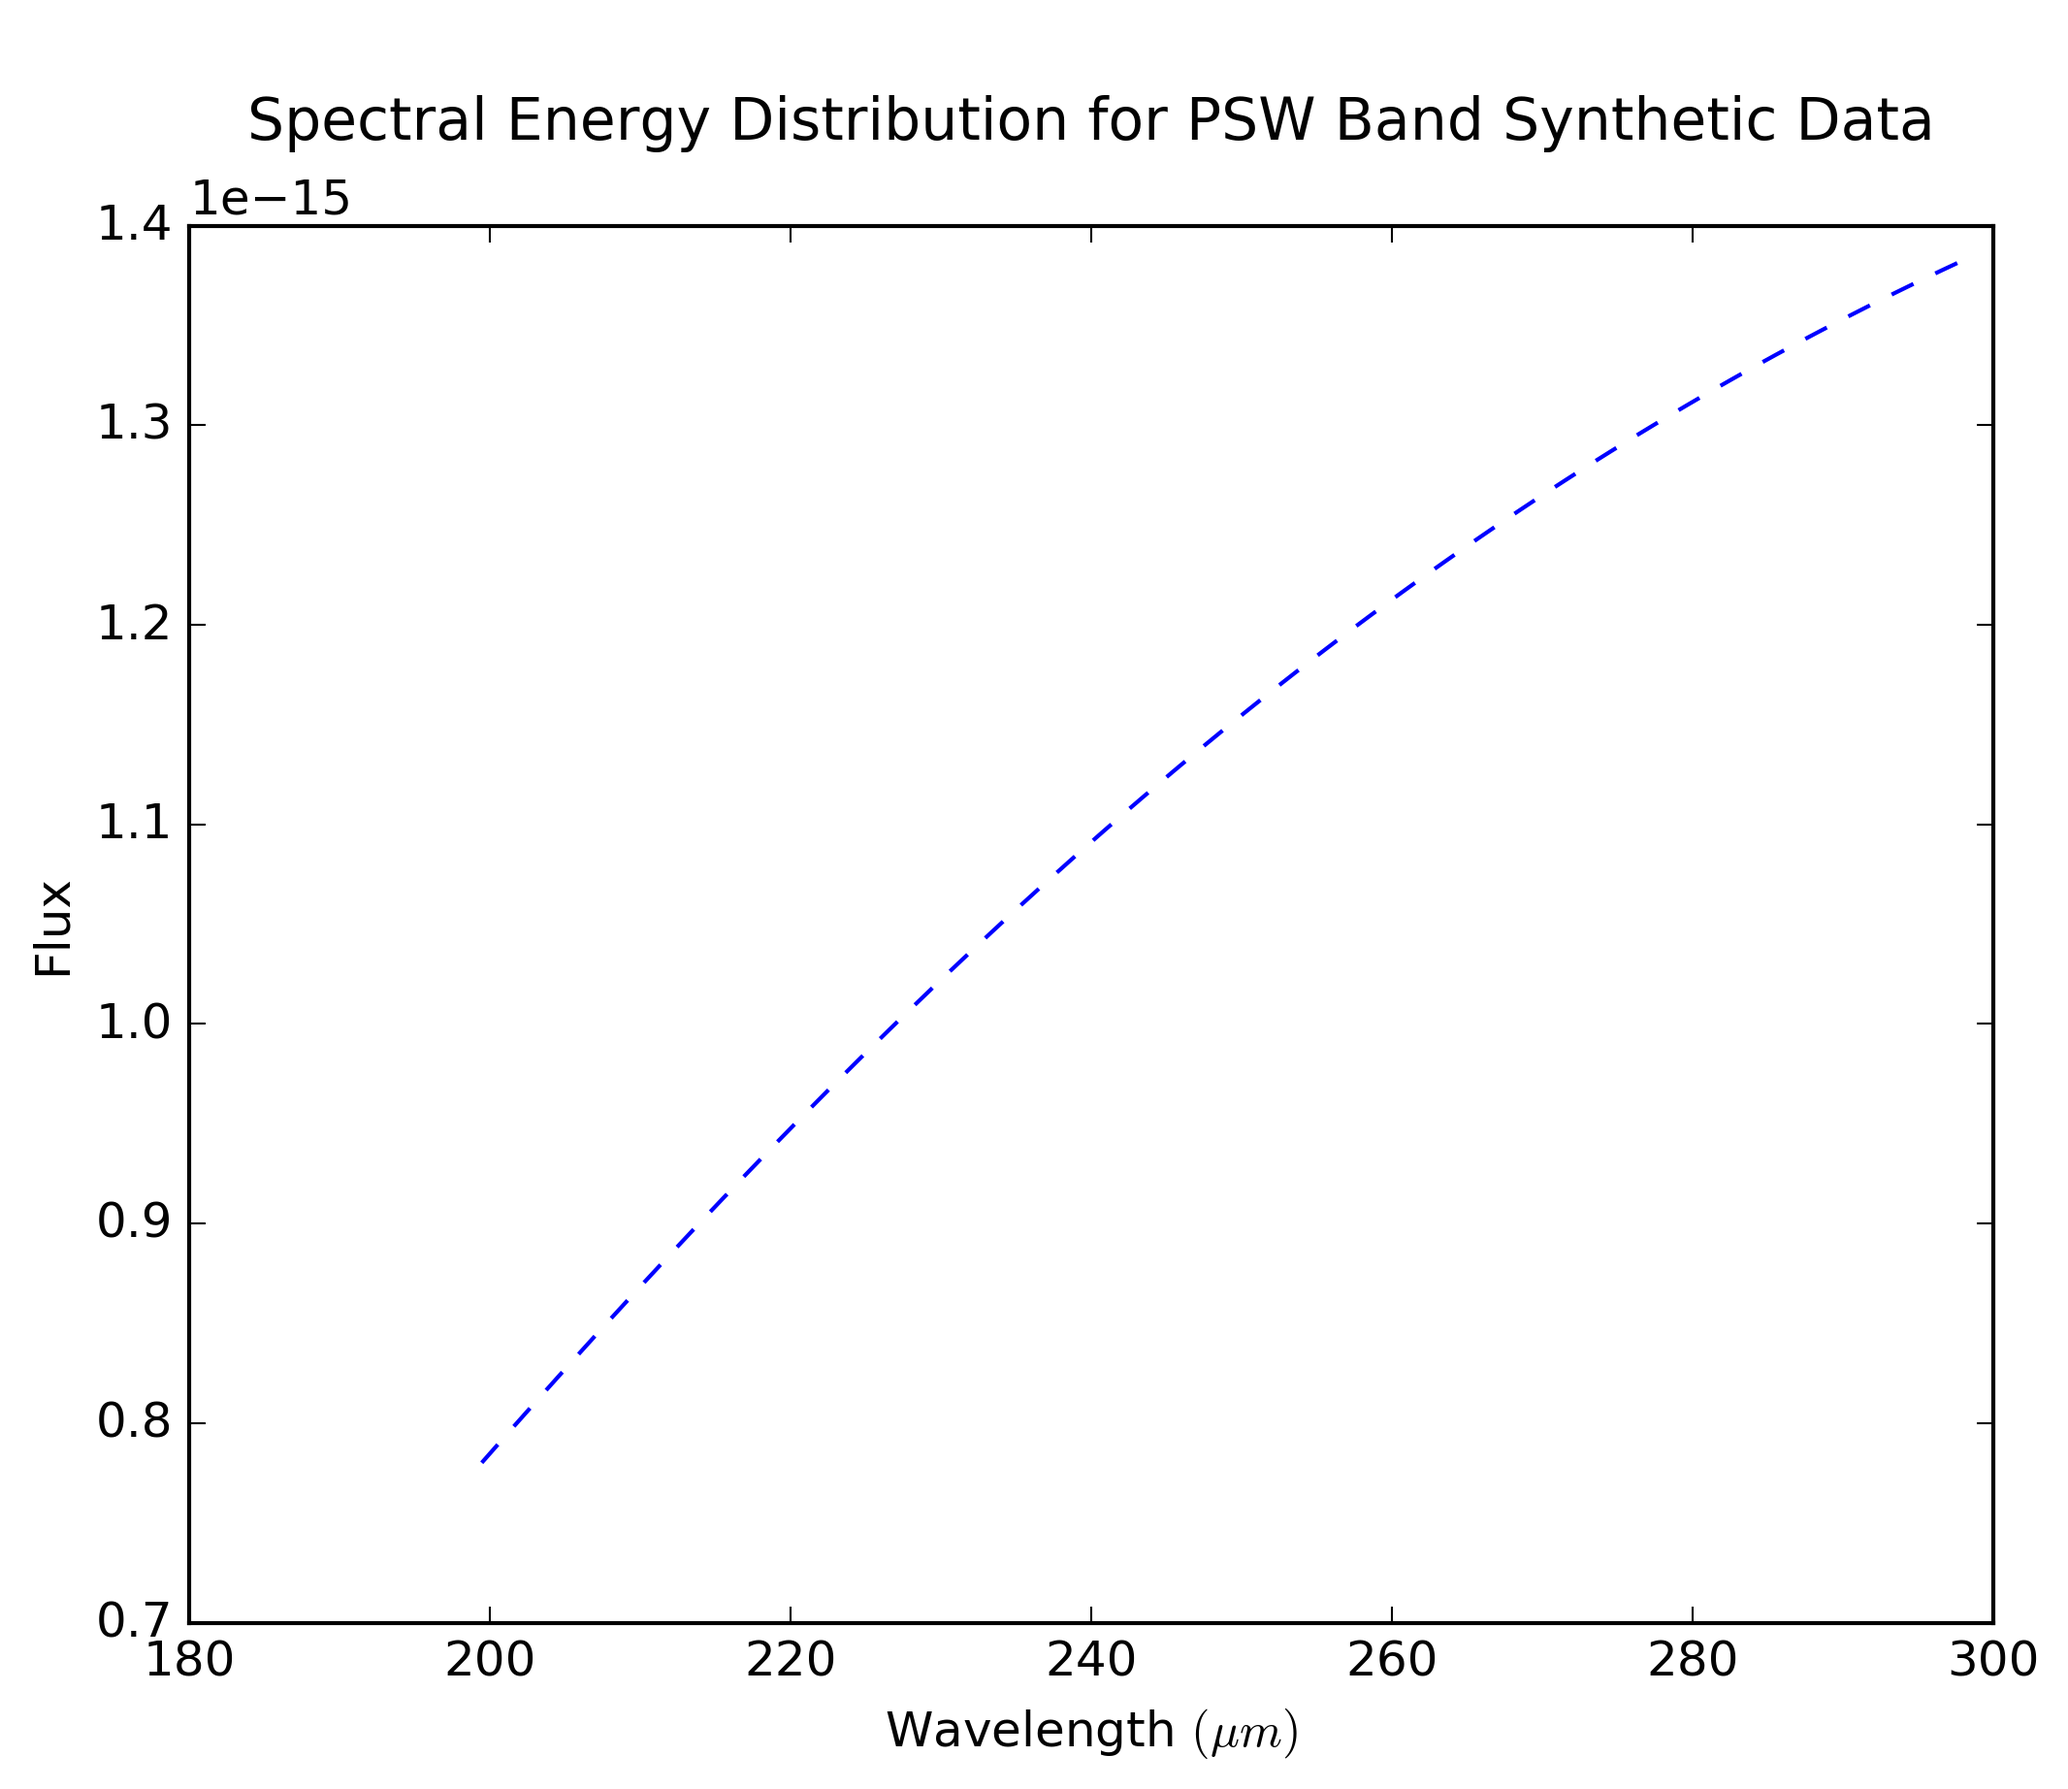
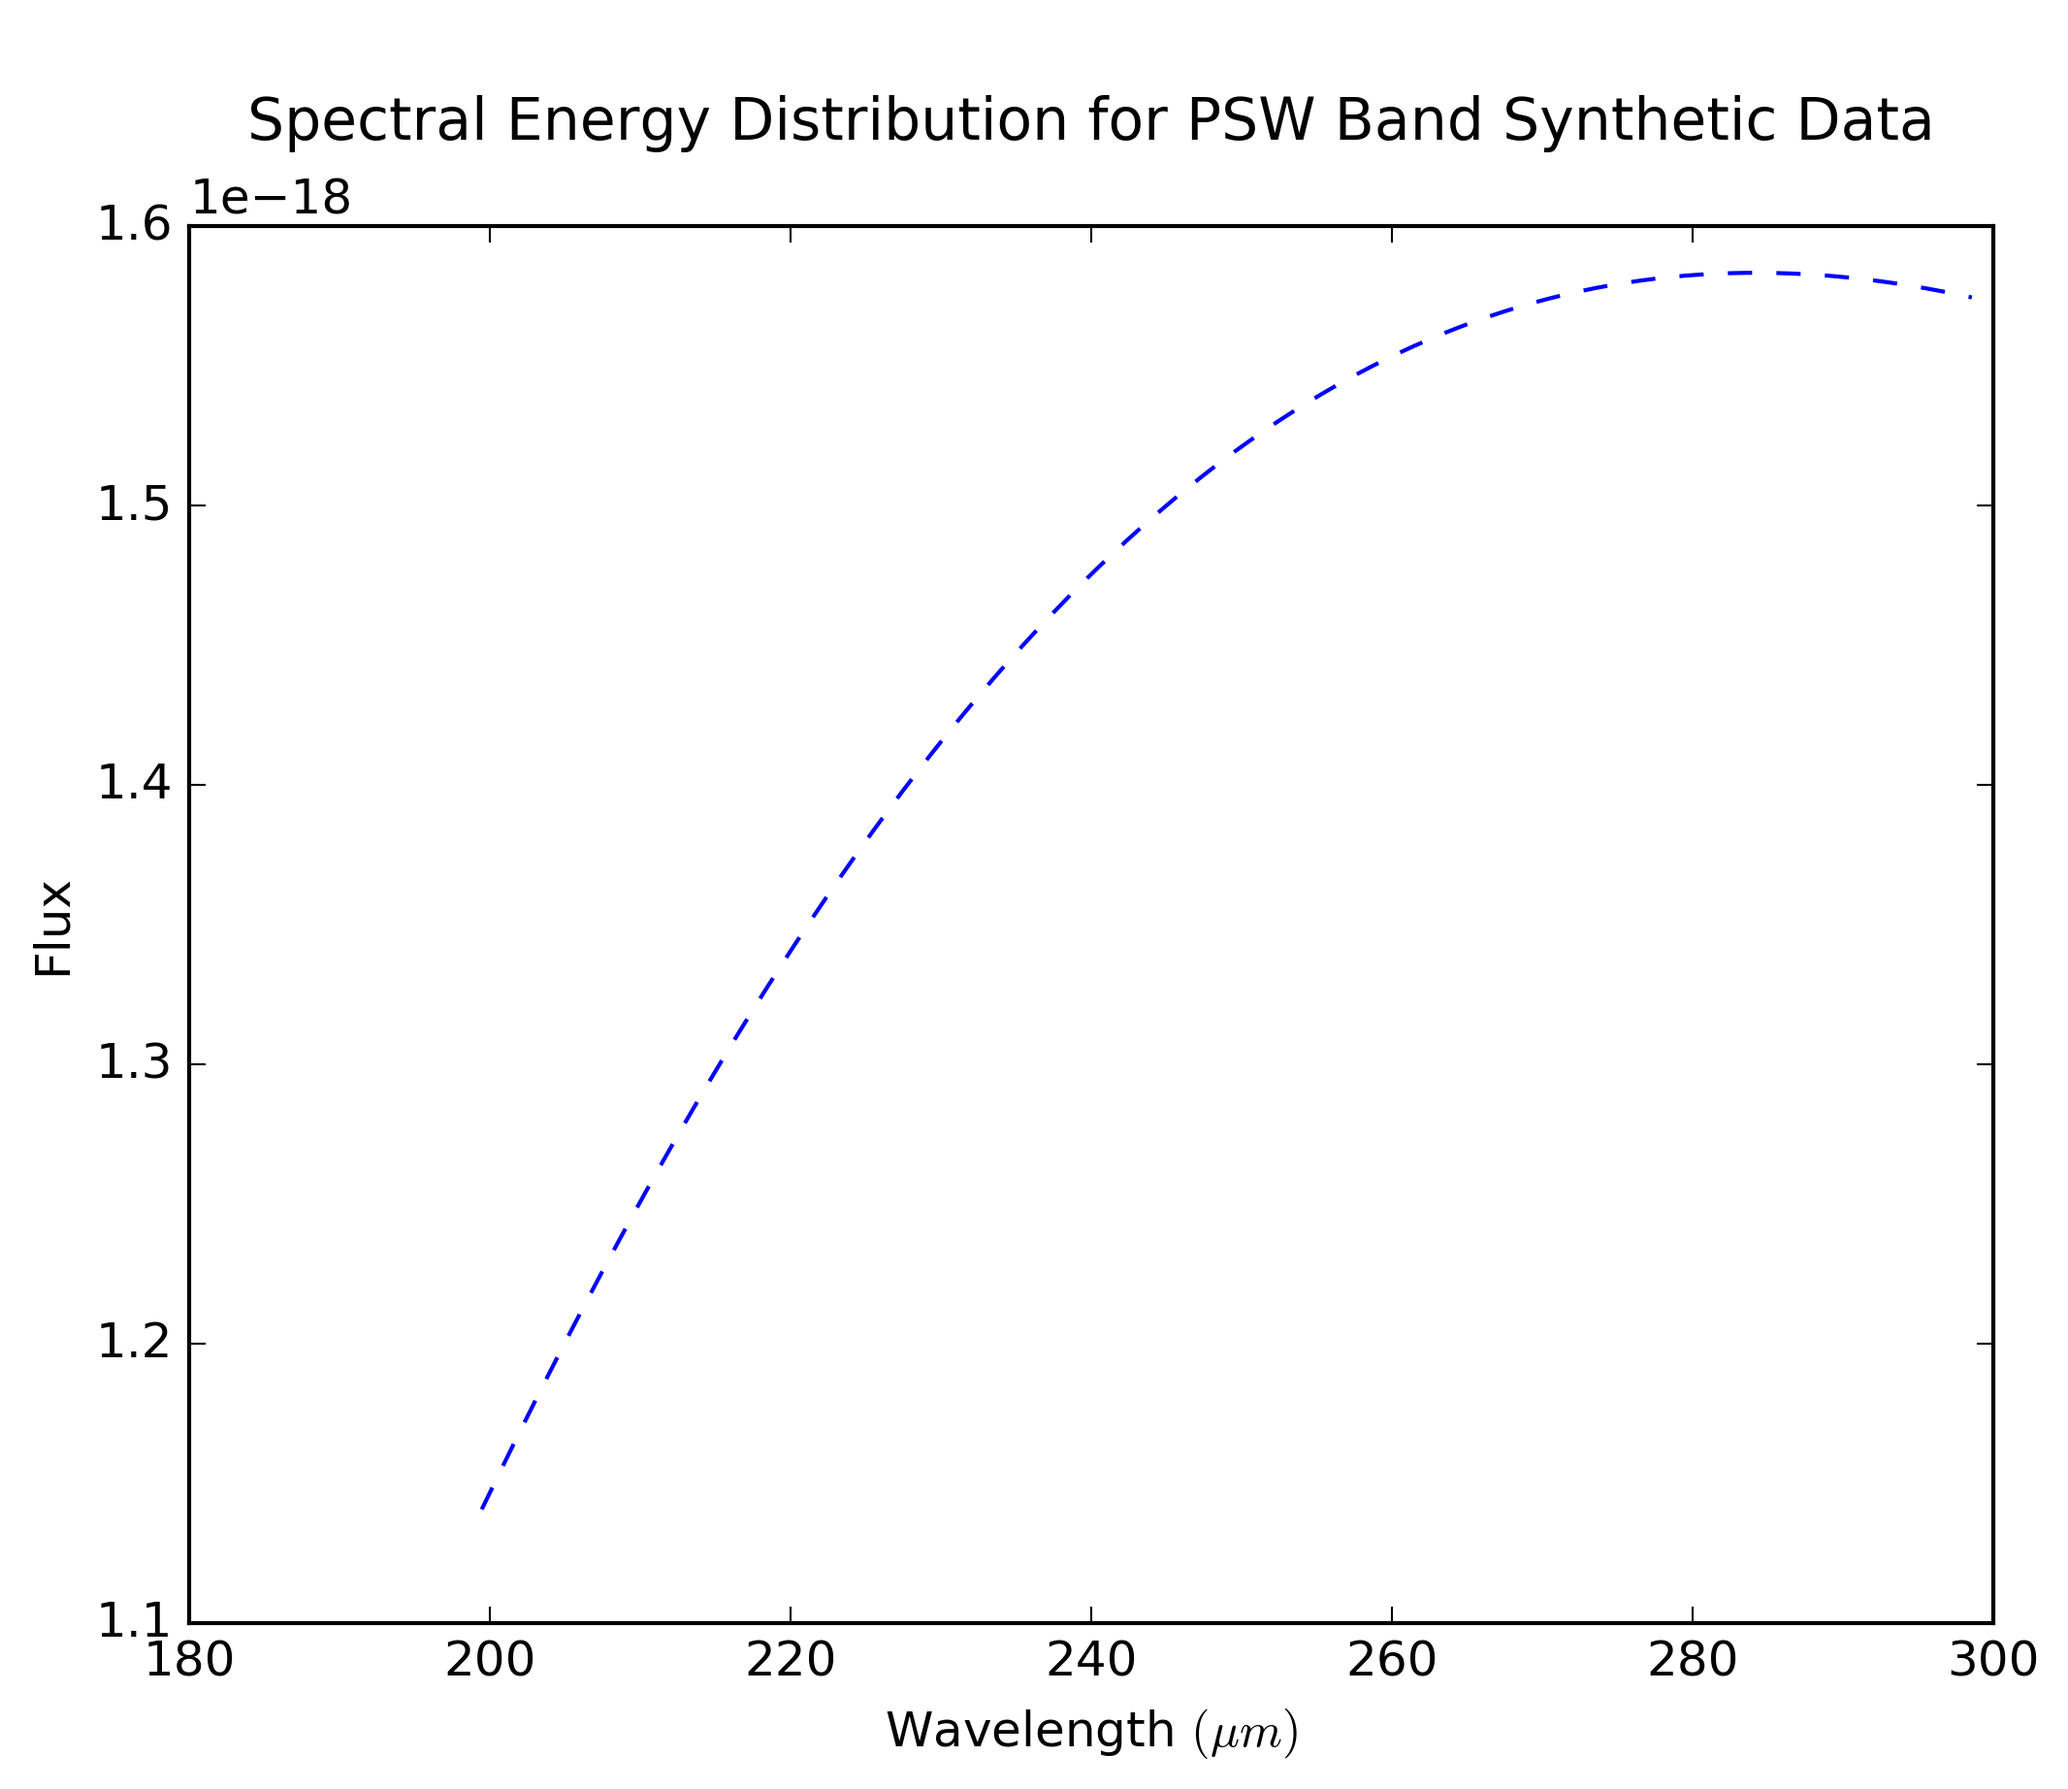
Added some minor tests of blackbody curves. Results match those of Shetty et. al.

diff --git a/Code/simulations/stats/chi.py b/Code/simulations/stats/chi.py
@@ -30,7 +30,7 @@ def chi(O,E,sigma):
     Returns simply the minimised chi squared value for a given dataset.
 
     O is the flux from the actual data.
-    Sigma is the square root of the variance of P (assume 10% of P)
+    Sigma is the square root of the variance of O (assume 10% of O)
     E is the data that is expected
     '''
     return sum((((O-E)/sigma)**2))
@@ -42,7 +42,10 @@ def mbb(N,opac,wav,T):
 
     This returns the intensity per unit solid angle, i.e. the flux observed.
     '''
-    return (N*opac*((2*(hh)*(cc)**2)/wav**5)*(1/(np.exp(hh*cc/(wav*kk*T))-1)))
+    a = (2*(6.626e-34)*(3e8)**2)/(wav**5)
+    b = ((6.6262e-34)*(3e8))/(wav*(1.38e-23)*T)
+    #return N*opac*(a*(1./(np.exp(b)-1)))
+    return opac*N*(a*(1./(np.exp(b)-1)))
 
 ############################ Read in the spectral data #########################
 
@@ -50,7 +53,7 @@ def mbb(N,opac,wav,T):
 spectrum = np.loadtxt('spectrum.out', skiprows=2)
 
 wav = spectrum[:,0]
-flux = spectrum[:,1]/max(spectrum[:,1])
+flux = spectrum[:,1]
 
 ######################### Determine (again) the opacity ########################
 
@@ -58,18 +61,28 @@ band = input('Which passband is to be considered? Answer with: \'PSW\', \'PMW\',
 
 if band == 'PSW':
     # The start and end points of the wavelength range in microns
-    lambda_init = 199.4540
-    lambda_fin = 298.5657
+    lambda_init = 199.4540e-6
+    lambda_fin = 298.5657e-6
 
     # Query for reference wavelength
-    w_ref = 249.00983
-    v_ref = cc/w_ref
+    w_ref = 1.30e9
+    v_ref = cc*10**-2/w_ref
+    print 'The reference wavelength is taken to be', w_ref, 'microns which equates to a frequency of', v_ref, 'Hz.\n'
+
+if band == 'PMW':
+    # The start and end points of the wavelength range in microns
+    lambda_init = 281.6949
+    lambda_fin = 424.7548
+
+    # Query for reference wavelength
+    w_ref = 1.30e9
+    v_ref = cc*10**-2/w_ref
     print 'The reference wavelength is taken to be', w_ref, 'microns which equates to a frequency of', v_ref, 'Hz.\n'
 
 # Ask for reference opacity
 #kappa_0 = input('What reference intensity should be used? (1 is a safe default)\n')
-kappa_0 = 0.009
-print ('\nThe k_0 opacity is taken to be 0.009 cm^2/g as per Ossenkopf and Henning, 1994.\n')
+kappa_0 = 3.09e-1
+print ('\nThe k_0 opacity is taken to be 3.09e-1 cm^2/g as per Ossenkopf and Henning, 1994.\n')
 
 # Ask for the number of wavelength points
 #nlam = input('How many wavelength points do you want me to use in construction?\n')
@@ -80,7 +93,6 @@ print 'There are ', nlam, 'points in the opacity spectrum.\n'
 
 # Create array of wavelengths from range given and reshape
 w = np.linspace(lambda_init, lambda_fin, nlam)
-v = np.linspace(cc/lambda_init, cc/lambda_fin, nlam)
 
 # Ask for opacity law
 opaclaw = input('Which opacity law should I use? Answer with: \'H\' (Hildebrand) \n')
@@ -90,26 +102,30 @@ B = input('What dust spectral index should be used? (1.7 is recommended)\n')
 
 if opaclaw == 'H':
     # Evaluate opacities
-    #opacity = kappa_0*(v/v_ref)**B
     opacity = kappa_0*(w_ref/w)**B
 
 ###################### Determine the modified black body #######################
 
 # Generate list of column densities
-N = np.linspace(1e20,1e24,1e4)
+#N = np.linspace(1e21,9e22,10)
+N = [1e21]
 
 # Loop through each column density and determine modified black body curve
 mod = []
 
-for i in range(0,len(N)):
-    mod.append(mbb(N[i],opacity,wav,T=10))
-
 # Plot the figure and save for reference
 figure(1)
-plot(wav,mod)
+
+for i in range(0,len(N)):
+    blackbody = mbb(N[i],opacity,w,T=20)
+    mod.append(blackbody)
+
+    plot(np.log10(wav),np.log10(blackbody),label=str('N=')+str(N[i]))
+
 xlabel('Wavelength ($\mu m$)')
 ylabel('Flux')
-title(str('\nThe Modified Black Body Curve for N=')+str(N[0])+str('$cm^{-1}$ to ')+str(N[-1])+str('$cm^{-1}$\n'))
+legend(loc='best')
+title(str('\nThe Modified Black Body Curve for N=')+str(N[0])+str('$cm^{-2}$ to ')+str(N[-1])+str('$cm^{-2}$\n'))
 savefig(str(band)+str('_modbb.png'),dpi=300)
 close()
 
@@ -120,11 +136,11 @@ chivals = []
 
 # Loop through each value of the expected data (i.e. each value of the column density) and determine the chi squared value for each value
 for j in range(0,len(N)):
-    chivals.append(chi(flux,mod[i]/max(mod[i]),sigma=(0.1*mod[i]/max(mod[i]))))
+    chivals.append(chi(flux,mod[i],sigma=(0.1*mod[i])))
 
 # Plot the figure and save for reference
 figure(2)
-errorbar(N,chivals)
+plot(N,chivals)
 xlabel('N $(cm^{-1})$')
 ylabel('$\chi^2$')
 title(str('\nThe $\chi^2$ Distribution for N=')+str(N[0])+str('$cm^{-1}$ to ')+str(N[-1])+str('$cm^{-1}$\n'))

diff --git a/Code/simulations/stats/bbtest.py b/Code/simulations/stats/bbtest.py
@@ -1,0 +1,82 @@
+################################################################################
+############################ 4th Year Project Code #############################
+############################# Chi Squared Routine ##############################
+################################################################################
+
+############################# Import statements ################################
+
+# Import OS manipulation tools
+import os
+
+# Import radmc3dPy
+from radmc3dPy.natconst import *
+
+# Import numpy
+import numpy as np
+
+# Import csv
+import csv
+
+# Import plotting tools
+from matplotlib.pyplot import *
+
+############################### Define functions ###############################
+
+# Modified blackbody
+def mbb(N,opac,wav,T):
+    '''
+    Function that returns the modified black body law that best describes cold dust emission as stated in Kelly et. al. (2012).
+
+    This returns the intensity per unit solid angle, i.e. the flux density.
+    '''
+    a = (2*(hh)*(cc)**2)/(wav**5)
+    b = ((hh)*(cc))/(wav*(kk)*T)
+    #return N*opac*(a*(1./(np.exp(b)-1)))
+    return N*opac*a*(1./(np.exp(b)-1))
+
+################################## Spoof data ##################################
+
+# Define wavelengths
+wav = np.linspace(60e-4,1400e-4,1701)
+
+# Assign spectral index
+B = [0,2]
+
+# Assign column density
+N = 1e24
+
+# Define reference quantities
+w_ref = 1.303e-3
+kappa_0 = 3.09e-1
+
+opacity = []
+fluxdensity = []
+
+# Loop through a number of different spextral indices
+for i in range(0,2):
+    # Evaluate opacities
+    opacity.append(kappa_0*(w_ref/wav)**B[i])
+
+    plot(wav,opacity[i],'b--')
+    xlabel('Wavelength $(m)$')
+    ylabel('Dust Opacity $(g/cm^{3})$')
+    savefig(str('dust_opacity_B=')+str(B[i])+str('.png'))
+    close()
+
+    # Evaluate fluxes
+    fluxdensity.append(mbb(N,opacity[i],wav,T=20))
+
+    loglog(wav,fluxdensity[i],'b--')
+    xlabel('Wavelength $(cm)$')
+    ylabel('Flux Density')
+    savefig(str('flux_density_B=')+str(B[i])+str('.png'))
+    close()
+
+loglog(wav,fluxdensity[0],'b--',label=str('B=')+str(B[0]))
+loglog(wav,fluxdensity[1],'g--',label=str('B=')+str(B[1]))
+grid(True,which="majorminor",ls="-",color='0.65')
+xlabel('Wavelength $(cm)$')
+ylabel('Flux Density')
+legend(loc='best')
+savefig('flux_density_combined.png')
+close()

diff --git a/Code/datafiles/vanilla/datafilegen.py b/Code/datafiles/vanilla/datafilegen.py
@@ -247,13 +247,13 @@ lambda_init = 0.1 # 0.1 um
 lambda_fin = 10000. # 10000 um
 
 # Query for reference wavelength
-w_ref = input('Which reference wavelength should I use to evaluate the opacities?\n')
-v_ref = cc/w_ref
+#w_ref = input('Which reference wavelength should I use to evaluate the opacities?\n')
+w_ref = 1.30e3 # Reference wavelength in um
 
 # Ask for reference opacity
 #kappa_0 = input('What reference intensity should be used? (1 is a safe default)\n')
-kappa_0 = 0.009
-print ('\nThe k_0 opacity is taken to be 0.009 cm^2/g as per Ossenkopf and Henning, 1994.\n')
+kappa_0 = 3.09e-1
+print ('\nThe k_0 opacity is taken to be 3.09e-1 cm^2/g as per Ossenkopf and Henning, 1994.\n')
 
 # Ask for the number of wavelength points
 nlam = input('How many wavelength points do you want me to use in construction?\n')
@@ -262,7 +262,7 @@ nlam = input('How many wavelength points do you want me to use in construction?\
 
 # Create array of wavelengths from range given and reshape
 w = np.linspace(lambda_init, lambda_fin, nlam)
-v = np.linspace(cc/lambda_init, cc/lambda_fin, nlam)
+v = np.linspace(cc/(lambda_init*10**-4), cc/(lambda_fin*10**-4), nlam)
 
 # Ask for opacity law
 opaclaw = input('Which opacity law should I use? Answer with: \'H\' (Hildebrand) \n')
@@ -272,7 +272,8 @@ B = input('What dust spectral index should be used? (1.7 is recommended)\n')
 
 if opaclaw == 'H':
     # Evaluate opacities
-    opacity = kappa_0*(v/v_ref)**B
+    opacity = kappa_0*(w_ref/w)**B
+    #opacity = kappa_0*(v/v_ref)**B
 
 # Concantenate arrays to create 2D array of all data in format ready to be
 # written to the .inp file

diff --git a/Code/simulations/workingsims/psw/background_15K/psw_sed.py b/Code/simulations/workingsims/psw/background_15K/psw_sed.py
@@ -40,8 +40,20 @@ flux = spectrum[:,1]
 
 ################################# Plotting routine #############################
 
+################################# Plotting routine #############################
+
+figure(1)
 plot(wav, flux, 'b--')
 xlabel('Wavelength $(\mu m)$')
 ylabel('Flux')
 title('\nSpectral Energy Distribution for PSW Band Synthetic Data\n')
 savefig('spectrum_psw.png', dpi=300, bbox_inches='tight')
+close()
+
+figure(2)
+plot(wav, flux/max(flux), 'g--')
+xlabel('Wavelength $(\mu m)$')
+ylabel('Normalised Flux')
+title('\nSpectral Energy Distribution for PSW Band Synthetic Data\n')
+savefig('spectrum_norm_psw.png', dpi=300, bbox_inches='tight')
+close()

diff --git a/Code/simulations/workingsims/psw/nullbackground/sim_psw.py b/Code/simulations/workingsims/psw/nullbackground/sim_psw.py
@@ -47,7 +47,7 @@ os.system('radmc3d image loadlambda')
 psw_ext = [199.4540,298.5657]
 
 # Plot image for first SPIRE wavelength band (PSW)
-radmc3dPy.image.makeImage(npix=100000, sizeau=15000, incl=90., lambdarange=psw_ext, nlam=60)
+#radmc3dPy.image.makeImage(npix=100000, sizeau=15000, incl=90., lambdarange=psw_ext, nlam=60)
 
 ########################### Account for transmission ###########################
 
